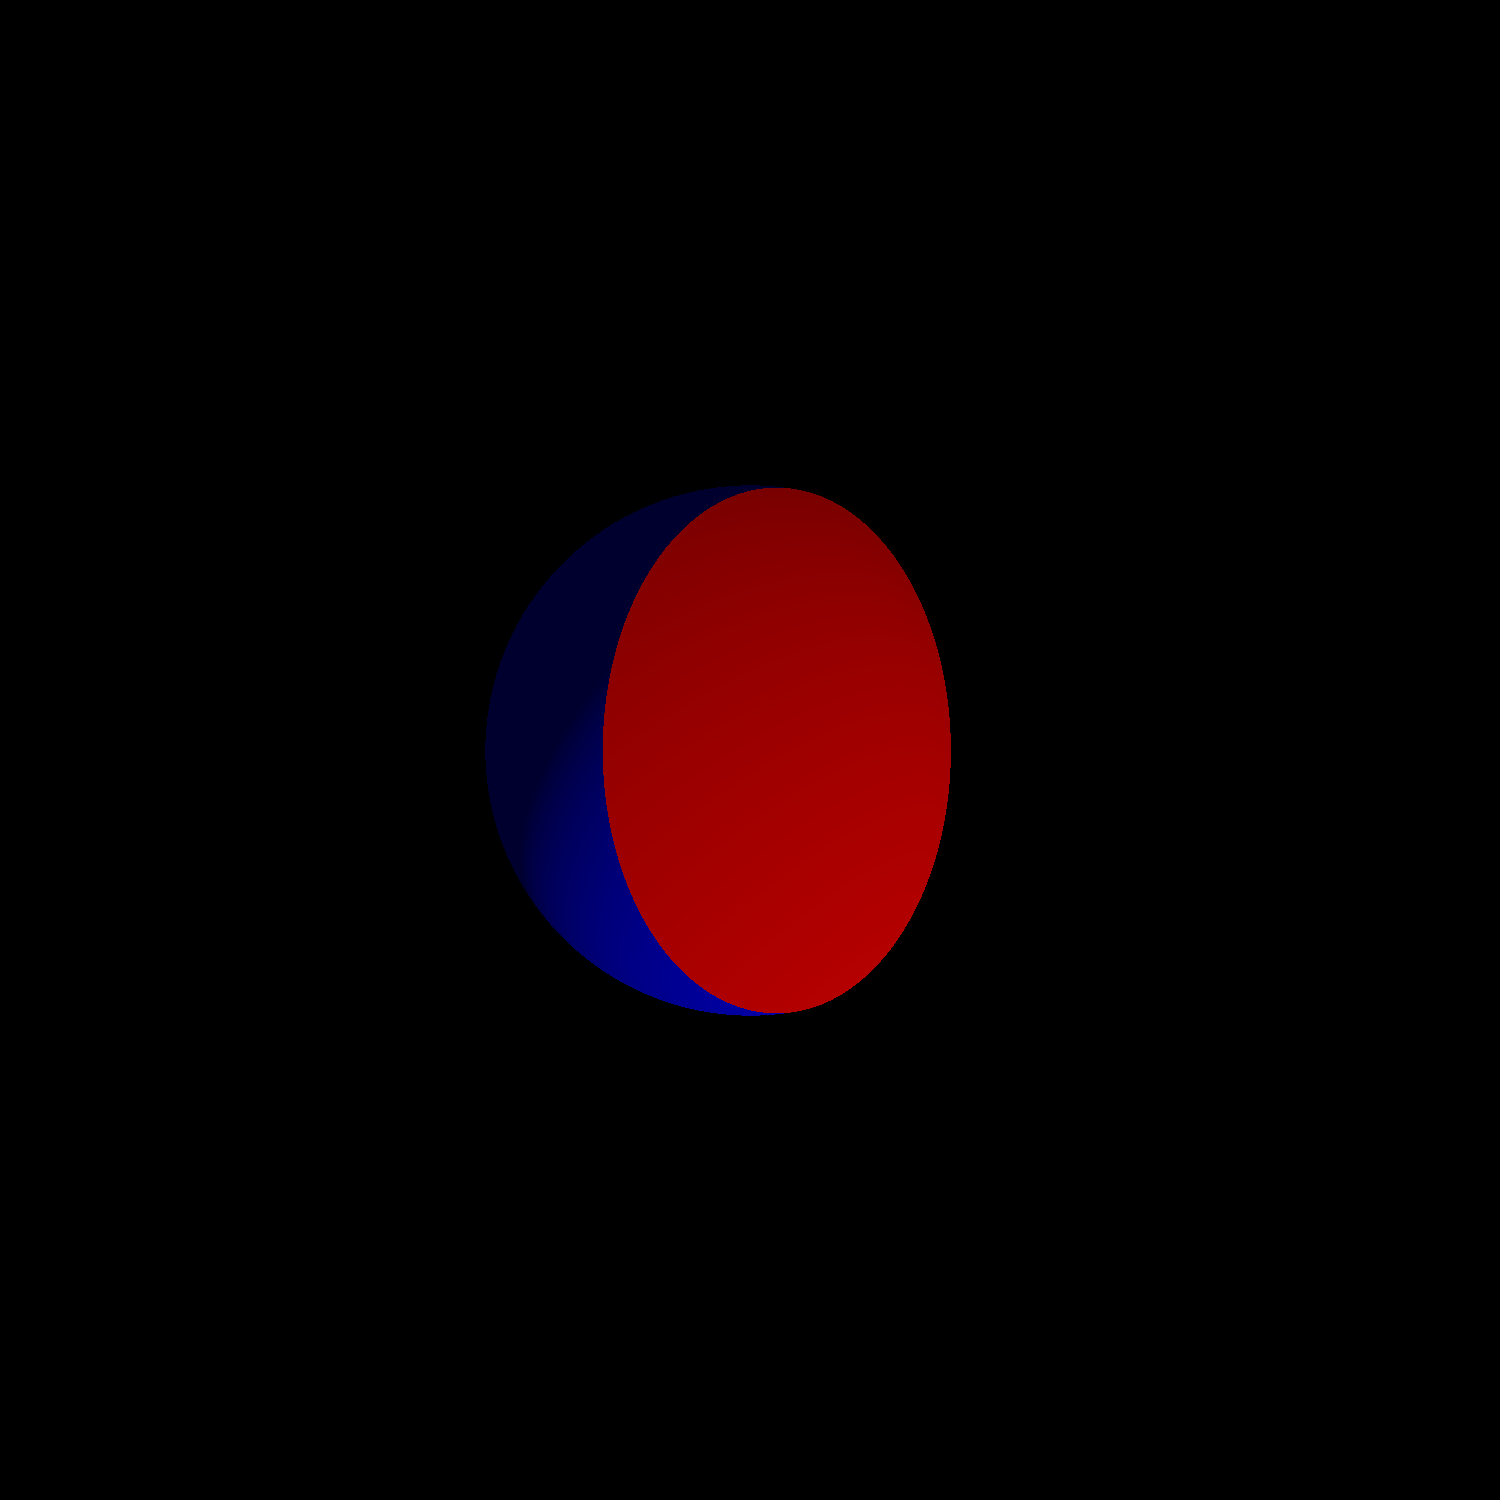
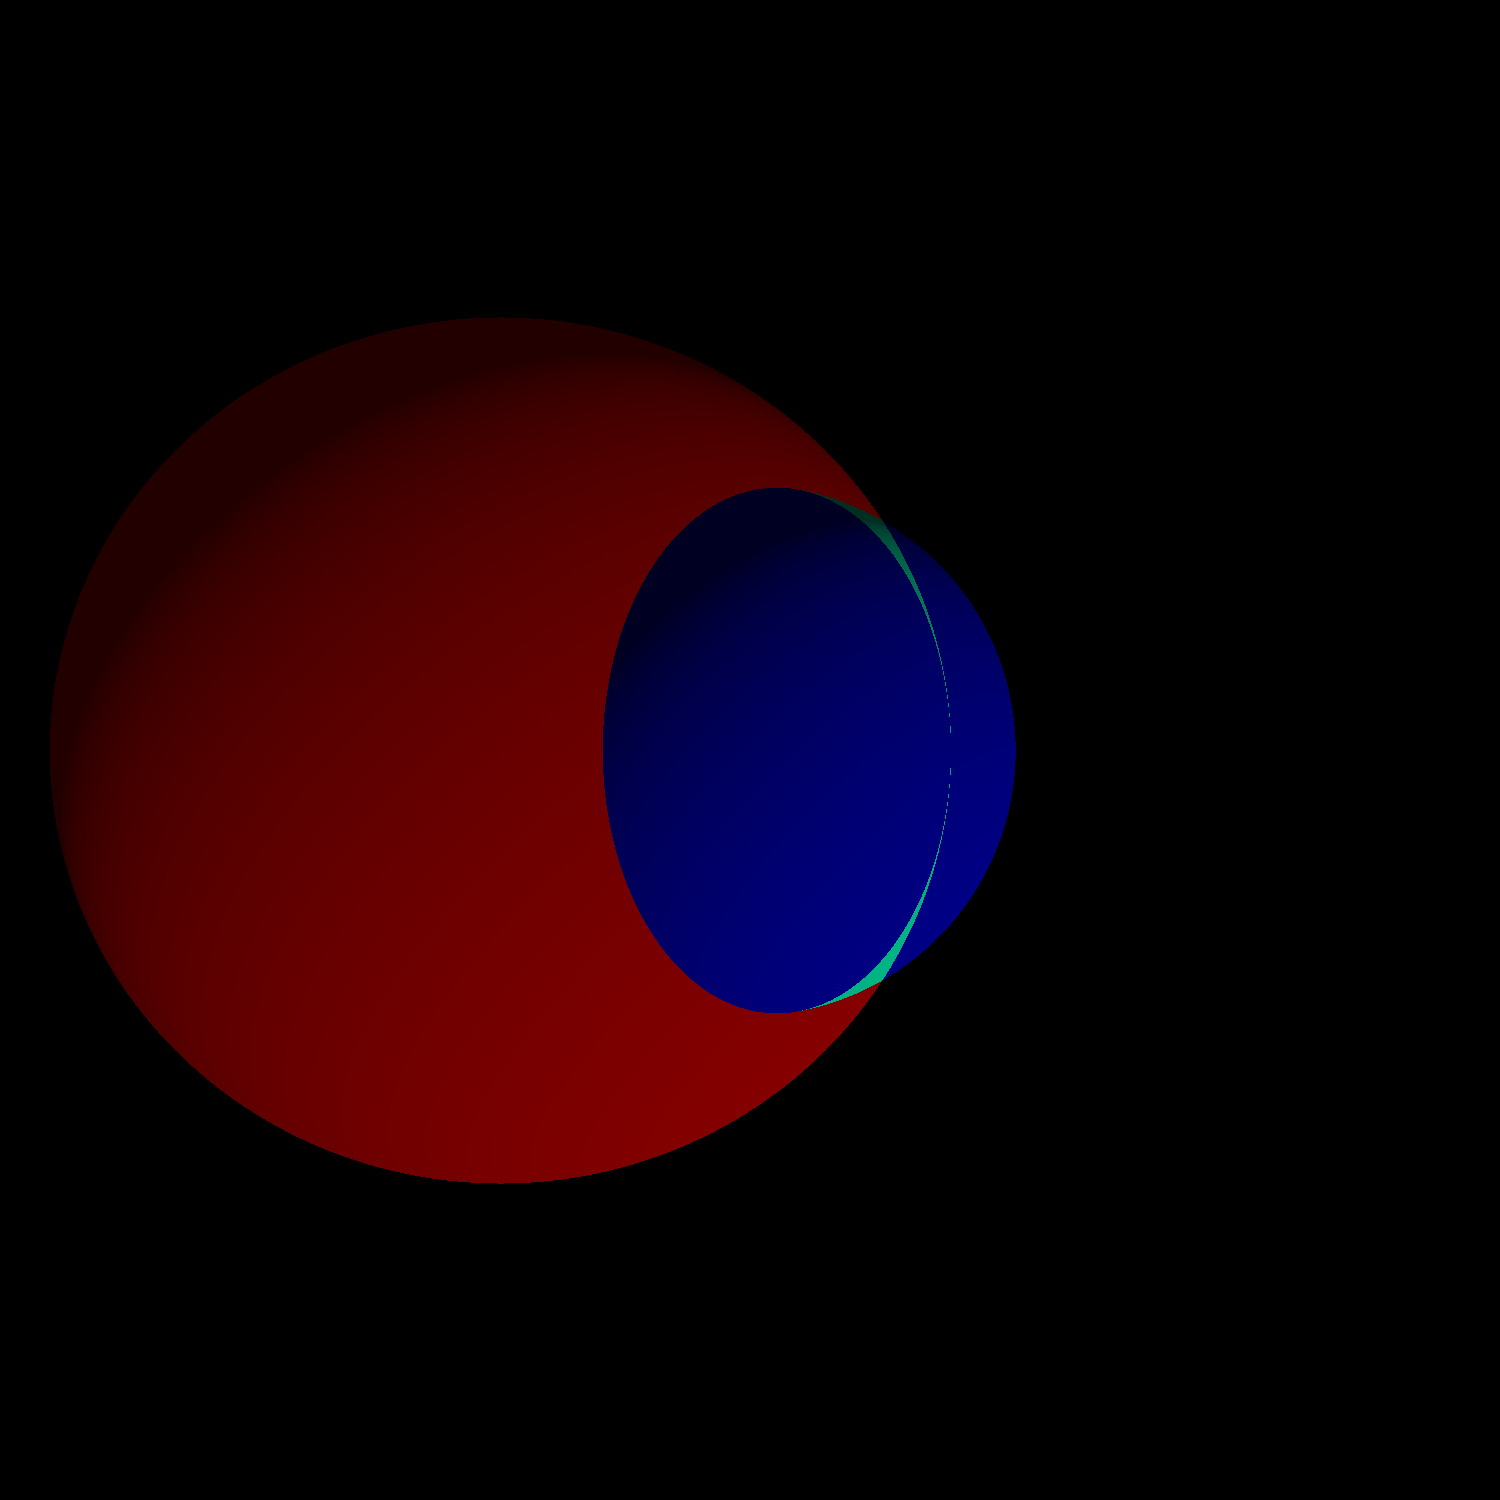
geometry unification

Changed region(s): [[0.0307, 0.2147, 0.6747, 0.7973]]

diff --git a/src/cgg/geom/Complex.java b/src/cgg/geom/Complex.java
@@ -36,7 +36,46 @@ public class Complex implements Geometry
 	private Queue<HitTuple> _union(Queue<HitTuple> h0,Queue<HitTuple> h1)
 	{
 		Queue<HitTuple> __Final = new LinkedList<>();
-		return h0;
+		HitTuple __Hit = h0.poll();
+		HitTuple __Inter = h1.poll();
+
+		// iterate target geometry and combine in union
+		while (__Hit!=null||__Inter!=null)
+		{
+			if (__Hit==null)
+			{
+				__Final.add(__Inter);
+				__Inter = h1.poll();
+				continue;
+			}
+			if (__Inter==null)
+			{
+				__Final.add(__Hit);
+				__Hit = h0.poll();
+				continue;
+			}
+
+			// check for intersection
+			if (secondHitRecent(__Inter.front(),__Hit.back()))
+			{
+				__Final.add(__Hit);
+				__Hit = h0.poll();
+				continue;
+			}
+			if (secondHitRecent(__Hit.front(),__Inter.back()))
+			{
+				__Final.add(__Inter);
+				__Inter = h1.poll();
+				continue;
+			}
+
+			// unify intersecting geometry
+			Hit __Front = closestHit(__Hit.front(),__Inter.front());
+			Hit __Back = farthestHit(__Hit.back(),__Inter.back());
+			__Hit = new HitTuple(__Front,__Back);
+			__Inter = h1.poll();
+		}
+		return __Final;
 	}
 
 	private Queue<HitTuple> _intersect(Queue<HitTuple> h0,Queue<HitTuple> h1)

diff --git a/src/cgg/RayTracer.java b/src/cgg/RayTracer.java
@@ -24,14 +24,15 @@ public class RayTracer implements Sampler
 	{
 		Ray __Ray = scene.camera.generateRay(coord);
 		Queue<HitTuple> __Hits = scene.complex.intersect(__Ray);
-		return (__Hits.size()>0) ? _shade(__Hits.peek().front()) : background;
+		return (__Hits.size()>0) ? _shade(__Hits.peek().front(),__Hits.size()) : background;
 	}
 
-	public Color _shade(Hit hit)
+	public Color _shade(Hit hit,int size)
 	{
+		Color ncolour = hit.colour().mix(color(0,(size>1)?1:0,0));
 		Vec3 lightDir = normalize(vec3(1,1,.7));
-		Color ambient = multiply(.05,hit.colour());
-		Color diffuse = multiply(.9*max(0,dot(lightDir,hit.normal())),hit.colour());
+		Color ambient = multiply(.05,ncolour);
+		Color diffuse = multiply(.9*max(0,dot(lightDir,hit.normal())),ncolour);
 		return add(ambient,diffuse);
 	}
 }

diff --git a/src/cgg/a03/Scene.java b/src/cgg/a03/Scene.java
@@ -16,6 +16,6 @@ public class Scene
 		camera = new Camera(vec3(0,0,0),90.,width,height);
 		Sphere sphere0 = new Sphere(vec3(-.5,0,-2),1.,color(.5,0,0));
 		Sphere sphere1 = new Sphere(vec3(0,0,-1.5),.5,color(0,0,.5));
-		complex = new Complex(sphere0,sphere1,JoinOperation.INTERSECTION);
+		complex = new Complex(sphere0,sphere1,JoinOperation.UNION);
 	}
 }
